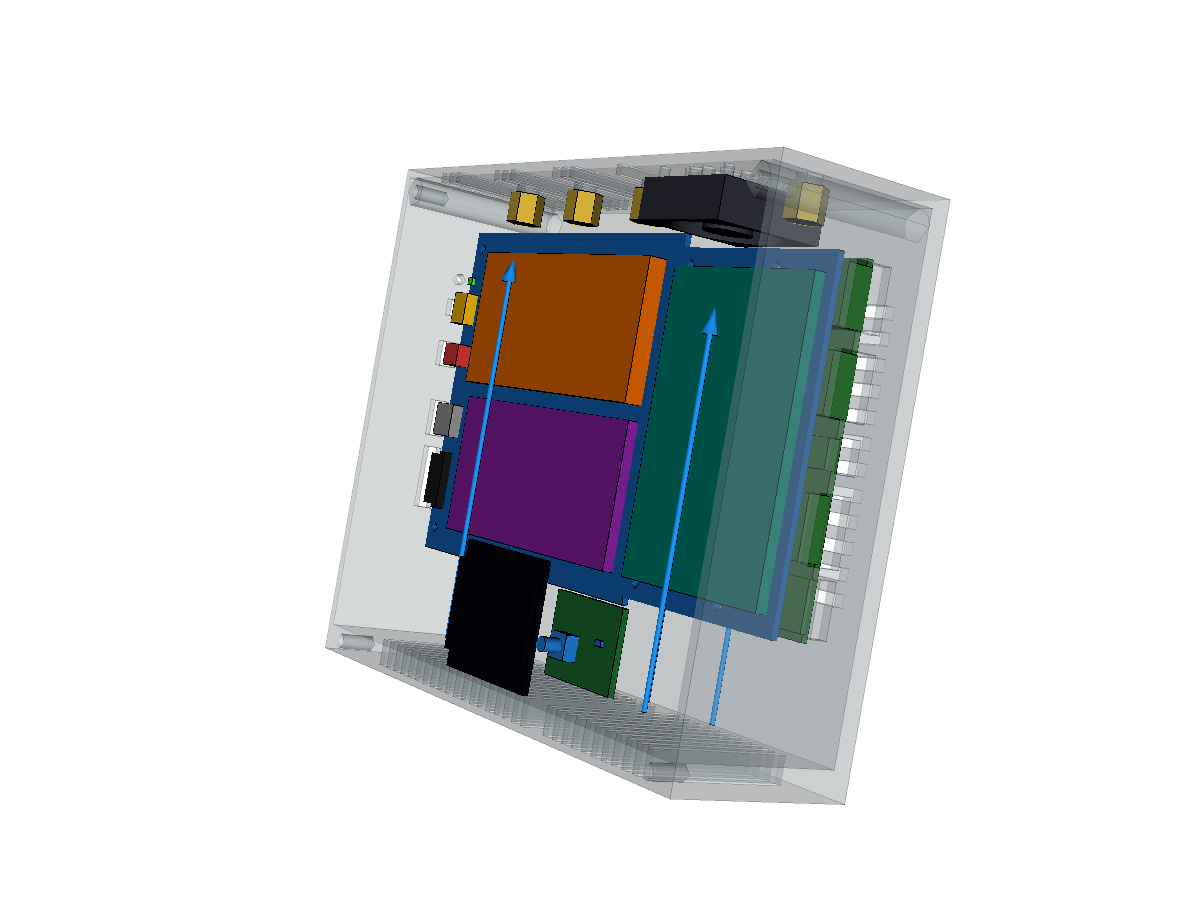
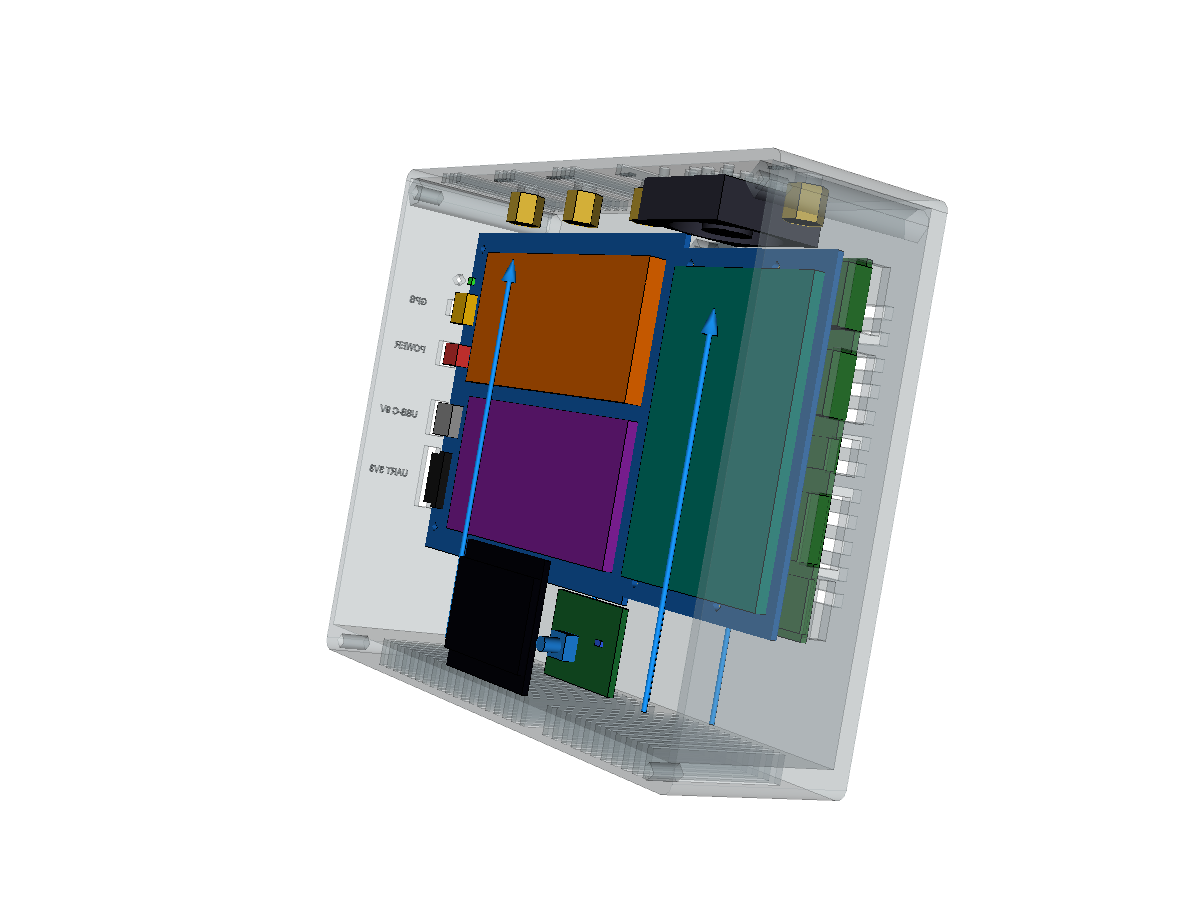
Enclosure detail design v1: printable tub, front plate, battery door, stand
case/meshtastic-concept/enclosure_concept.py now produces four print
parts (STL + STEP, print orientation): rounded tub with integrated
board bosses (M2.5 heat-set inserts), plenum divider and M3 insert posts;
front plate with locating rim, chamfer and counterbored screws; battery
door in a flush recess with three tongues, two M3 ears and vent slots;
stand with tie bars. Debossed labels on the side, top and front faces.
Interference check across all parts: 0. Not test-printed yet.

Study doc section 7.6: parts table, fastening details, assembly order,
print notes and open items.

diff --git a/case/meshtastic-concept/enclosure_concept.py b/case/meshtastic-concept/enclosure_concept.py
@@ -57,6 +57,13 @@ P = dict(
     # 433 TX and 433 RX at the two ends for the best duplex isolation.
     antennas=[("433 TX", 12.0, 195.0), ("GPS", 70.0, 0.0), ("LoRa 920", 100.0, 110.0), ("433 RX", 128.0, 195.0)],
     sma_hole=6.5, sma_flat=5.9,  # D-hole for 1/4"-36 bulkhead SMA (check the actual part)
+    # print / assembly details
+    tol=0.25,                   # general clearance between printed parts
+    corner_r=3.0,               # outer vertical corner radius
+    lip_t=1.2, lip_h=2.0,       # locating rim on the front plate, fits inside the tub walls
+    ins_m3=4.0, ins_m25=3.6,    # pilot holes for M3 / M2.5 heat-set inserts (check your inserts)
+    door_t=1.5, door_margin=2.5,  # battery door plate thickness and overlap around the opening
+    label_depth=0.4,
     # desk stand
     tilt=12.0, foot_gap=8.0, stand_depth=55.0, cradle_w=12.0, cradle_y=(14.0, 118.0),
 )
@@ -147,7 +154,8 @@ def build(p=P):
     xh = box(xh_x0, cy - p["disp_w"] / 2, z_pcb - p["disp_pcb"] - p["disp_back"],
              xh_x0 + 15.12, cy - p["disp_w"] / 2 + 7.8, z_pcb - p["disp_pcb"])
     parts["display"] = lcd.union(dpcb).union(xh)
-    tub = box(ox0, oy0, z_out_back, ox1, oy1, z_front_in).cut(box(ix0, iy0, z_back_in, ix1, iy1, z_front_in + 1))
+    tub = (box(ox0, oy0, z_out_back, ox1, oy1, z_front_in).edges("|Z").fillet(p["corner_r"])
+           .cut(box(ix0, iy0, z_back_in, ix1, iy1, z_front_in + 1)))
     # corner posts for M3 heat-set inserts (front plate screws)
     posts, post_holes = [], []
     screw_pts = ((ix0 - p["bottom_wall"] / 2, iy0 + 6), (ix0 - p["bottom_wall"] / 2, iy1 - 6),
@@ -155,17 +163,28 @@ def build(p=P):
     for (px, py) in screw_pts[2:]:
         posts.append(cq.Workplane("XY").circle(4.0).extrude(z_front_in - z_back_in).translate((px, py, z_back_in)))
     for (px, py) in screw_pts:
-        post_holes.append(cq.Workplane("XY").circle(2.0).extrude(10).translate((px, py, z_front_in - 9.5)))
+        post_holes.append(cq.Workplane("XY").circle(p["ins_m3"] / 2).extrude(10).translate((px, py, z_front_in - 8.0)))
     tub = tub.union(union_all(posts)).cut(union_all(post_holes))
     # stand-offs from the back: Bubblegum-96 holes (to its underside) and main-board extension holes
-    so = [cq.Workplane("XY").circle(3.0).circle(1.25).extrude(-p["sbc_t"] - z_back_in).translate((hx, hy, z_back_in))
+    ri = p["ins_m25"] / 2
+    so = [cq.Workplane("XY").circle(3.5).extrude(-p["sbc_t"] - z_back_in).translate((hx, hy, z_back_in))
+          .cut(cq.Workplane("XY").circle(ri).extrude(6.0).translate((hx, hy, -p["sbc_t"] - 6.0)))
           for (hx, hy) in p["sbc_holes"]]
-    so += [cq.Workplane("XY").circle(3.0).circle(1.25).extrude(z_mb - z_back_in).translate((hx, hy, z_back_in))
+    so += [cq.Workplane("XY").circle(3.5).extrude(z_mb - z_back_in).translate((hx, hy, z_back_in))
+           .cut(cq.Workplane("XY").circle(ri).extrude(6.0).translate((hx, hy, z_mb - 6.0)))
            for (hx, hy) in p["mb_holes_ext"]]
-    so += [cq.Workplane("XY").circle(2.5).circle(1.25).extrude(p["mezz_gap"]).translate((hx, hy, 0.0))
-           for (hx, hy) in p["sbc_holes"]]
-    parts["standoffs"] = union_all(so)
-    front = box(ox0, oy0, z_front_in, ox1, oy1, z_out_front)
+    tub = tub.union(union_all(so))                 # printed bosses, M2.5 heat-set inserts
+    parts["spacers_m25x8"] = union_all([cq.Workplane("XY").polygon(6, 5.0 / 0.866).circle(1.25).extrude(p["mezz_gap"])
+                                        .translate((hx, hy, 0.0)) for (hx, hy) in p["sbc_holes"]])
+    front = box(ox0, oy0, z_front_in, ox1, oy1, z_out_front).edges("|Z").fillet(p["corner_r"])
+    front = front.faces(">Z").edges().chamfer(0.6)
+    t_ = p["tol"]
+    rim = (box(ix0 + t_, iy0 + t_, z_front_in - p["lip_h"], ix1 - t_, iy1 - t_, z_front_in)
+           .cut(box(ix0 + t_ + p["lip_t"], iy0 + t_ + p["lip_t"], z_front_in - p["lip_h"] - 1,
+                    ix1 - t_ - p["lip_t"], iy1 - t_ - p["lip_t"], z_front_in + 1)))
+    for (px, py) in screw_pts[2:]:                  # clear the two plenum posts
+        rim = rim.cut(cq.Workplane("XY").circle(4.0 + t_).extrude(p["lip_h"] + 2).translate((px, py, z_front_in - p["lip_h"] - 1)))
+    front = front.union(rim)
     vx = cx + p["va_off"]                          # active area is off-centre on the short axis
     front = front.cut(box(vx - p["va_h"] / 2 - 0.5, cy - p["va_w"] / 2 - 0.5, z_front_in - 1,
                           vx + p["va_h"] / 2 + 0.5, cy + p["va_w"] / 2 + 0.5, z_out_front + 1))
@@ -213,7 +232,8 @@ def build(p=P):
     front = front.cut(cq.Workplane("XY").circle(2.1).extrude(10).translate((bx, by, z_front_in - 2)))   # button
     front = front.cut(cq.Workplane("XY").circle(1.5).extrude(10).translate((lx, ly, z_front_in - 2)))   # LED
     for (px, py) in screw_pts:
-        front = front.cut(cq.Workplane("XY").circle(1.7).extrude(10).translate((px, py, z_front_in - 1)))
+        front = front.cut(cq.Workplane("XY").circle(1.7).extrude(10).translate((px, py, z_front_in - 3)))
+        front = front.cut(cq.Workplane("XY").circle(3.1).extrude(2).translate((px, py, z_out_front - 1.3)))   # head
     # side face (Y = 0): Bubblegum ports
     for (a, b, zt) in ((2, 14, 2.6), (17.5, 32.5, 7.0), (38, 45, 4.0), (49.5, 63.7, 8.0), (69, 83, 8.0)):
         tub = tub.cut(box(a - 0.5, oy0 - 1, -p["sbc_t"] - 0.5, b + 0.5, iy0 + 1, zt))
@@ -269,16 +289,60 @@ def build(p=P):
             top_slots.append(box(ix1 - 1, y, z_back_in + 4, ox1 + 1, y + 2, z_front_in - 6))
     tub = tub.cut(union_all(top_slots))
     # plenum divider: keeps the fan pulling through the SoC column, the cell column breathes passively
-    parts["plenum_divider"] = box(p["pcb_wide"][1] + 0.5, 53.5, z_back_in, ix1, 54.5, z_front_in - disp_t - 0.5)
+    tub = tub.union(box(p["pcb_wide"][1] + 0.5, 53.5, z_back_in, ix1, 54.5, z_front_in - disp_t - 0.5))
     # --- bottom wall: intake slots for both columns
     bot = []
     for y in list(range(10, 52, 4)) + list(range(60, 136, 4)):
         bot.append(box(ox0 - 1, y, z_back_in + 3, ix0 + 1, y + 2, z_front_in - 6))
     tub = tub.cut(union_all(bot))
     # --- back: battery door opening + vent slots behind the SoC column
-    tub = tub.cut(box(x0 + 2, p["cells_y0"] + 2, z_out_back - 1, x0 + p["cell_len"] - 2,
-                      p["cells_y0"] + 4 * p["cell_pitch"] - 2, z_back_in + 1))
+    dx0, dx1 = x0 + 2, x0 + p["cell_len"] - 2
+    dy0, dy1 = p["cells_y0"] + 2, p["cells_y0"] + 4 * p["cell_pitch"] - 2
+    tub = tub.cut(box(dx0, dy0, z_out_back - 1, dx1, dy1, z_back_in + 1))
+    m_, dt = p["door_margin"], p["door_t"]
+    ear_x = dx1 + 7.0                                # screw ears beyond the cell holders (x ~ 86.8)
+    ear_ys = (dy0 + 14.0, dy1 - 14.0)
+    recess = box(dx0 - m_, dy0 - m_, z_out_back - 1, dx1 + m_, dy1 + m_, z_out_back + dt)
+    door = box(dx0 - m_ + t_, dy0 - m_ + t_, z_out_back, dx1 + m_ - t_, dy1 + m_ - t_, z_out_back + dt)
+    for ey in ear_ys:
+        recess = recess.union(box(dx1, ey - 5.0, z_out_back - 1, ear_x + 4.5, ey + 5.0, z_out_back + dt))
+        door = door.union(box(dx1, ey - 5.0 + t_, z_out_back, ear_x + 4.5 - t_, ey + 5.0 - t_, z_out_back + dt))
+        tub = tub.union(cq.Workplane("XY").circle(3.8).extrude(7.0).translate((ear_x, ey, z_back_in)))
+    tub = tub.cut(recess)
+    for ey in ear_ys:
+        tub = tub.cut(cq.Workplane("XY").circle(p["ins_m3"] / 2).extrude(12).translate((ear_x, ey, z_out_back)))
+        door = door.cut(cq.Workplane("XY").circle(1.7).extrude(5).translate((ear_x, ey, z_out_back - 1)))
+        door = door.cut(cq.Workplane("XY").circle(3.1).extrude(1.0).translate((ear_x, ey, z_out_back - 0.2)))
+    for ty in (dy0 + 12.0, (dy0 + dy1) / 2 - 5.0, dy1 - 22.0):   # tongues hook under the back wall at the -X edge
+        door = door.union(box(dx0 + t_, ty, z_out_back + dt, dx0 + t_ + 1.6, ty + 10.0, z_back_in + 1.4))
+        door = door.union(box(dx0 - 3.0, ty, z_back_in + t_, dx0 + t_ + 1.6, ty + 10.0, z_back_in + 1.4))
+    for i in range(4):                              # vent slots along each cell
+        yc = p["cells_y0"] + i * p["cell_pitch"] + 10.35
+        door = door.cut(box(dx0 + 10, yc - 1.0, z_out_back - 1, dx1 - 10, yc + 1.0, z_out_back + dt + 1))
+    parts["battery_door"] = door
     tub = tub.cut(union_all([box(8 + i * 6, 6, z_out_back - 1, 11 + i * 6, 48, z_back_in + 1) for i in range(12)]))
+    ld = p["label_depth"]
+
+    def label(txt, size, pos, rot, depth_dir):
+        """Text solid, ld deep, lying in the XY plane then rotated/translated into place."""
+        t = cq.Workplane("XY").text(txt, size, ld + 0.2, halign="center", valign="center")
+        for (axis, ang) in rot:
+            t = t.rotate((0, 0, 0), axis, ang)
+        return t.translate(pos)
+    try:
+        # +Y side face (left side when standing): reads along +Z with +X up, beside each opening
+        side = [("UART 3V3", 17.5), ("USB-C 9V", 34.5), ("POWER", 53.0), ("GPS", 66.3)]
+        for (txt, x) in side:
+            tub = tub.cut(label(txt, 2.6, (x, oy1 - ld, z_mt + 13.5), [((1, 1, 1), -120)], None))
+        # top wall: antenna names in front of the SMA holes, read from the front (along -Y)
+        for (name, y, _l) in p["antennas"]:
+            tub = tub.cut(label(name, 2.6, (ox1 - ld, y, zc + 8.5), [((0, 1, 0), 90), ((1, 0, 0), -90)], None))
+        # front plate: reads along -Y with +X up
+        front = front.cut(label("MESH", 3.0, (bx - 6.5, by, z_out_front - ld), [((0, 0, 1), -90)], None))
+        parts["_labels_ok"] = None
+    except Exception as e:  # noqa: BLE001  (no font available: skip the labels)
+        print("labels skipped:", e)
+    parts.pop("_labels_ok", None)
     parts["enclosure_tub"] = tub
     parts["front_plate"] = front
     # air-flow arrows (visual only): up the SoC chimney into the fan, passive up the cell column
@@ -311,7 +375,10 @@ def build_stand(p, geo, world_parts):
     for y in p["cradle_y"]:
         blk = box(bb.xmin - 4, y, desk, bb.xmax + p["stand_depth"], y + p["cradle_w"], bb.zmin + 22)
         cradles.append(blk.cut(env).cut(env.translate((0, 0, 30))))
-    stand = union_all(cradles)
+    y0_, y1_ = min(p["cradle_y"]), max(p["cradle_y"]) + p["cradle_w"]
+    tie = box(bb.xmax + p["stand_depth"] - 10.0, y0_, desk, bb.xmax + p["stand_depth"], y1_, desk + 6.0)
+    tie2 = box(bb.xmin - 4, y0_, desk, bb.xmin + 4, y1_, desk + 4.0)
+    stand = union_all(cradles + [tie, tie2])
     return stand, desk
 
 
@@ -320,11 +387,11 @@ COLORS = dict(bubblegum96=(0.18, 0.49, 0.20), soc_heatsink=(0.75, 0.75, 0.78), l
               usb_c=(0.62, 0.62, 0.62), power_button=(0.90, 0.22, 0.21), mesh_button=(0.12, 0.53, 0.90),
               gps_switch=(1.0, 0.76, 0.03), gps_led=(0.2, 1.0, 0.2), fan=(0.2, 0.2, 0.25),
               console_header=(0.1, 0.1, 0.1), chin_board=(0.1, 0.45, 0.2), oled=(0.02, 0.02, 0.05),
-              fp_led=(0.2, 0.4, 1.0),
-              plenum_divider=(0.55, 0.6, 0.62), airflow=(0.1, 0.6, 1.0),
+              fp_led=(0.2, 0.4, 1.0), battery_door=(0.55, 0.62, 0.66), spacers_m25x8=(0.85, 0.75, 0.35),
+              airflow=(0.1, 0.6, 1.0),
               mesh_gps_zone=(0.56, 0.14, 0.67), power_zone=(0.94, 0.42, 0.0), mmdvm_zone=(0.0, 0.54, 0.48),
               cells_1s4p=(0.78, 0.16, 0.16), display=(0.10, 0.10, 0.12),
-              standoffs=(0.85, 0.75, 0.35), enclosure_tub=(0.69, 0.75, 0.77), front_plate=(0.81, 0.85, 0.86), stand=(0.45, 0.47, 0.50))
+              enclosure_tub=(0.69, 0.75, 0.77), front_plate=(0.81, 0.85, 0.86), stand=(0.45, 0.47, 0.50))
 OPACITY = dict(enclosure_tub=0.22, front_plate=0.18)
 
 
@@ -383,9 +450,16 @@ if __name__ == "__main__":
         asm.add(wp, name=n)
     asm.save(os.path.join(out, "concept_assembly.step"))
     # print orientation: tub on its back, front plate flat, cradles as modelled
-    cq.exporters.export(parts["enclosure_tub"], os.path.join(out, "enclosure_tub.stl"))
-    cq.exporters.export(parts["front_plate"], os.path.join(out, "front_plate.stl"))
-    cq.exporters.export(stand, os.path.join(out, "stand_cradle.stl"))
+    # print orientation: tub on its back, front plate face down, door outside face down, stand as modelled
+    prints = {"enclosure_tub": parts["enclosure_tub"],
+              "front_plate": parts["front_plate"].rotate((0, 0, 0), (0, 1, 0), 180),
+              "battery_door": parts["battery_door"],
+              "stand": stand}
+    for n, wp in prints.items():
+        cq.exporters.export(wp, os.path.join(out, n + ".stl"), tolerance=0.05, angularTolerance=0.2)
+        cq.exporters.export(wp, os.path.join(out, n + ".step"))
+        b_ = wp.val().BoundingBox()
+        print("  %-14s %6.1f x %6.1f x %5.1f mm  %6.1f cm3" % (n, b_.xlen, b_.ylen, b_.zlen, wp.val().Volume() / 1000))
     shell = world["enclosure_tub"]
     b = shell.val().BoundingBox()
     focal = ((b.xmin + b.xmax) / 2, (b.ymin + b.ymax) / 2, (b.zmin + b.zmax) / 2 + 20)
@@ -396,6 +470,8 @@ if __name__ == "__main__":
     render(world, os.path.join(out, "preview_airflow.png"), (-300, -360, 120), focal,
            skip=("front_plate", "display", "antennas", "stand"), fit=shell, zoom=1.05)
     render(world, os.path.join(out, "preview_side_ports.png"), (60, 420, 60), focal, opaque=True,
+           skip=("airflow", "antennas"), zoom=1.3)
+    render(world, os.path.join(out, "preview_top_labels.png"), (-260, 60, 420), focal, opaque=True,
            skip=("airflow", "antennas"), zoom=1.3)
     render(world, os.path.join(out, "preview_inside.png"), (-330, -200, 160), focal,
            skip=("front_plate", "display", "antennas", "airflow", "stand"), fit=shell, zoom=1.05)

diff --git a/docs/meshtastic-gps-study.md b/docs/meshtastic-gps-study.md
@@ -344,8 +344,8 @@ USB-C ─TVS─ CH224K（PD 誘騙，要 9 V；來源不支援就退回 5 V）
 
 使用者決定：**3D 列印**、**直立在桌上直接看螢幕**、加**小型散熱風扇**。
 
-- 模型：`case/meshtastic-concept/enclosure_concept.py`（CadQuery 2.8，參數化）。輸出 STEP 組合檔、`enclosure_tub.stl`、`front_plate.stl`、`stand_cradle.stl` 與預覽圖。
-- 這是配置研究用的模型，還不能直接列印：電池蓋、卡扣、圓角、列印公差都還沒做。
+- 模型：`case/meshtastic-concept/enclosure_concept.py`（CadQuery 2.8，參數化）。輸出 STEP 組合檔、四個列印零件的 STL／STEP 與預覽圖；STL／STEP 不進 git，跑腳本就會重新產生。
+- 細部設計已完成第一版（7.6 節），可以試印。**尚未實際列印驗證**，公差和螺母孔徑要印一次後再調。
 - 已用程式檢查零件之間的干涉（實體交集體積），目前為 0。
 - 材料：**PETG 或 ASA，不要用 PLA**。PLA 約 55–60 °C 就會軟化，盒內有 SoC、升壓電路和鋰電池。
 
@@ -445,12 +445,63 @@ USB-C ─TVS─ CH224K（PD 誘騙，要 9 V；來源不支援就退回 5 V）
 - **正面**：5 吋 TJC 螢幕；下方前面板有 1.3 吋 OLED 開窗和 MESH 按鍵。
 - **背面**：電池蓋（待設計成獨立零件，附警示標籤）、SoC 後方進風槽。
 
+### 7.6 列印零件與組裝（細部設計第一版，2026-11-15）
+
+**列印零件**（檔名即 STL／STEP 檔名；尺寸為列印擺放方向）
+
+| 零件 | 尺寸 (mm) | 體積 | 擺放方向 | 說明 |
+|---|---|---|---|---|
+| `enclosure_tub` | 135.5 × 161 × 49.2 | 約 122 cm³ | 背板朝下 | 桶身：背板＋四面牆，含電路板立柱、前蓋螺柱、頂部空腔隔板 |
+| `front_plate` | 135.5 × 161 × 7.5 | 約 37 cm³ | 正面朝下 | 前蓋：螢幕與 OLED 開窗、螺柱、定位唇邊 |
+| `battery_door` | 87.4 × 87.7 × 3.9 | 約 10 cm³ | 外側面朝下 | 電池蓋：3 個卡舌＋2 顆螺絲，4 條散熱槽 |
+| `stand` | 137.7 × 116 × 30 | 約 87 cm³ | 如模型 | 支架：兩個托架加前後連桿，機身後仰 12° |
+
+**細部做法**
+- **圓角**：外殼四個垂直邊 R3；前蓋正面邊緣倒角 0.6 mm。
+- **前蓋定位**：前蓋內側有一圈 1.2 × 2 mm 的唇邊，插進桶身內壁，單邊間隙 0.25 mm。
+- **前蓋螺絲**：4 顆 M3，螺絲頭沉入 Ø6.2 × 1.3 mm 的沉孔。桶身對應 4 個 Ø4.0 mm 熱熔螺母孔：兩個在頂部空腔的立柱，兩個在加厚的底邊。
+- **電路板固定**：桶身背板長出 6 根 Ø7 mm 立柱，頂端是 Ø3.6 mm 的 M2.5 熱熔螺母孔。
+  - 4 根對 Bubblegum 的固定孔，立柱頂到 Bubblegum 背面。
+  - 2 根對主板延伸端的孔，立柱頂到主板背面。
+  - Bubblegum 和主板之間用 4 根 M2.5 × 8 mm 六角銅柱（公母）。
+- **電池蓋**：
+  - 背板上有 1.5 mm 深的沉台，電池蓋裝上後與背面齊平。
+  - 下緣 3 個卡舌勾住背板內側，上緣 2 個耳朵各鎖一顆 M3（熱熔螺母在背板內側的凸柱裡）。
+  - 4 條 2 mm 寬的散熱槽各對準一顆電池。
+- **刻字**（凹 0.4 mm，字高 2.6–3 mm）：
+  - 左側面：`UART 3V3`、`USB-C 9V`、`POWER`、`GPS`。
+  - 頂面：`433 TX`、`GPS`、`LoRa 920`、`433 RX`。
+  - 正面：`MESH`。
+  - 字很小，0.4 mm 噴嘴可能印不清楚；可以把 `label_depth` 設成 0 關掉，改貼標籤。
+- **支架**：機身直接放進兩個托架的凹槽，沒有鎖固；底部留 8 mm 進風間隙。支架用料偏多，之後可以挖空減重。
+
+**組裝順序**
+1. 桶身和前蓋先埋好熱熔螺母：M3 ×6（前蓋 4、電池蓋 2），M2.5 ×6。
+2. 頂牆裝 4 個 SMA 母座和風扇。風扇用 M3 × 16 螺絲從外面穿過頂牆和風扇，內側上螺帽。
+3. Bubblegum 放到 4 根立柱上，用 4 根 8 mm 銅柱鎖住。
+4. 主板（電池座已焊在背面）對準擴充座壓下，鎖 4 顆 M2.5 到銅柱、2 顆到延伸端立柱。
+5. 接上 SMA pigtail、風扇線。
+6. 前蓋裝 5 吋螢幕（4 顆 M3 自攻）、OLED 模組（4 顆 M2 自攻）、前面板小板（2 顆 M2.5 自攻），接好三條線後蓋上前蓋，鎖 4 顆 M3。
+7. 從背面裝電池，蓋上電池蓋。
+
+**列印建議**
+- 材料 PETG 或 ASA；層高 0.2 mm；牆 3 圈以上。
+- 桶身側牆的開孔（連接埠、SMA、風扇格柵、進風槽）都是橫向孔，孔頂是短橋接，一般不用支撐；USB-A 那兩個 14 mm 寬的開口如果下垂，可以加支撐。
+- 電池蓋的卡舌有 3 mm 懸空，建議開支撐或把卡舌朝上印。
+- 熱熔螺母孔徑（M3 Ø4.0、M2.5 Ø3.6）依手上的螺母調整：參數 `ins_m3`、`ins_m25`。
+
+**還沒驗證的地方**
+- 沒有實際列印過。接頭開孔位置是照主板 PCB 與 96Boards 圖面算的，建議先印桶身對一次。
+- Bubblegum 的 SoC 位置、OLED 可視區偏移（`oled_va_dx`）仍是暫定值。
+- GPS LED 導光孔 Ø3.2 mm，導光柱型號未定。
+
 預覽圖：
 
 - `preview_desk_front.png`：桌上直立，正面（5 吋螢幕、下方 OLED 與 MESH 鍵）。
 - `preview_desk_back.png`：背面，電池蓋與風扇格柵。
+- `preview_side_ports.png`：左側面的按鍵、開關、USB-C、console 開孔與刻字。
+- `preview_top_labels.png`：頂面的 SMA 孔、風扇格柵與刻字。
 - `preview_airflow.png`：拿掉前蓋，藍色箭頭是氣流。
-- `preview_side_ports.png`：左側面的按鍵、開關、USB-C 與 console 接頭開孔。
 - `preview_inside.png`：內部配置。
 
 ## 8. 軟體（Ubuntu 24.04 on Bubblegum-96）
